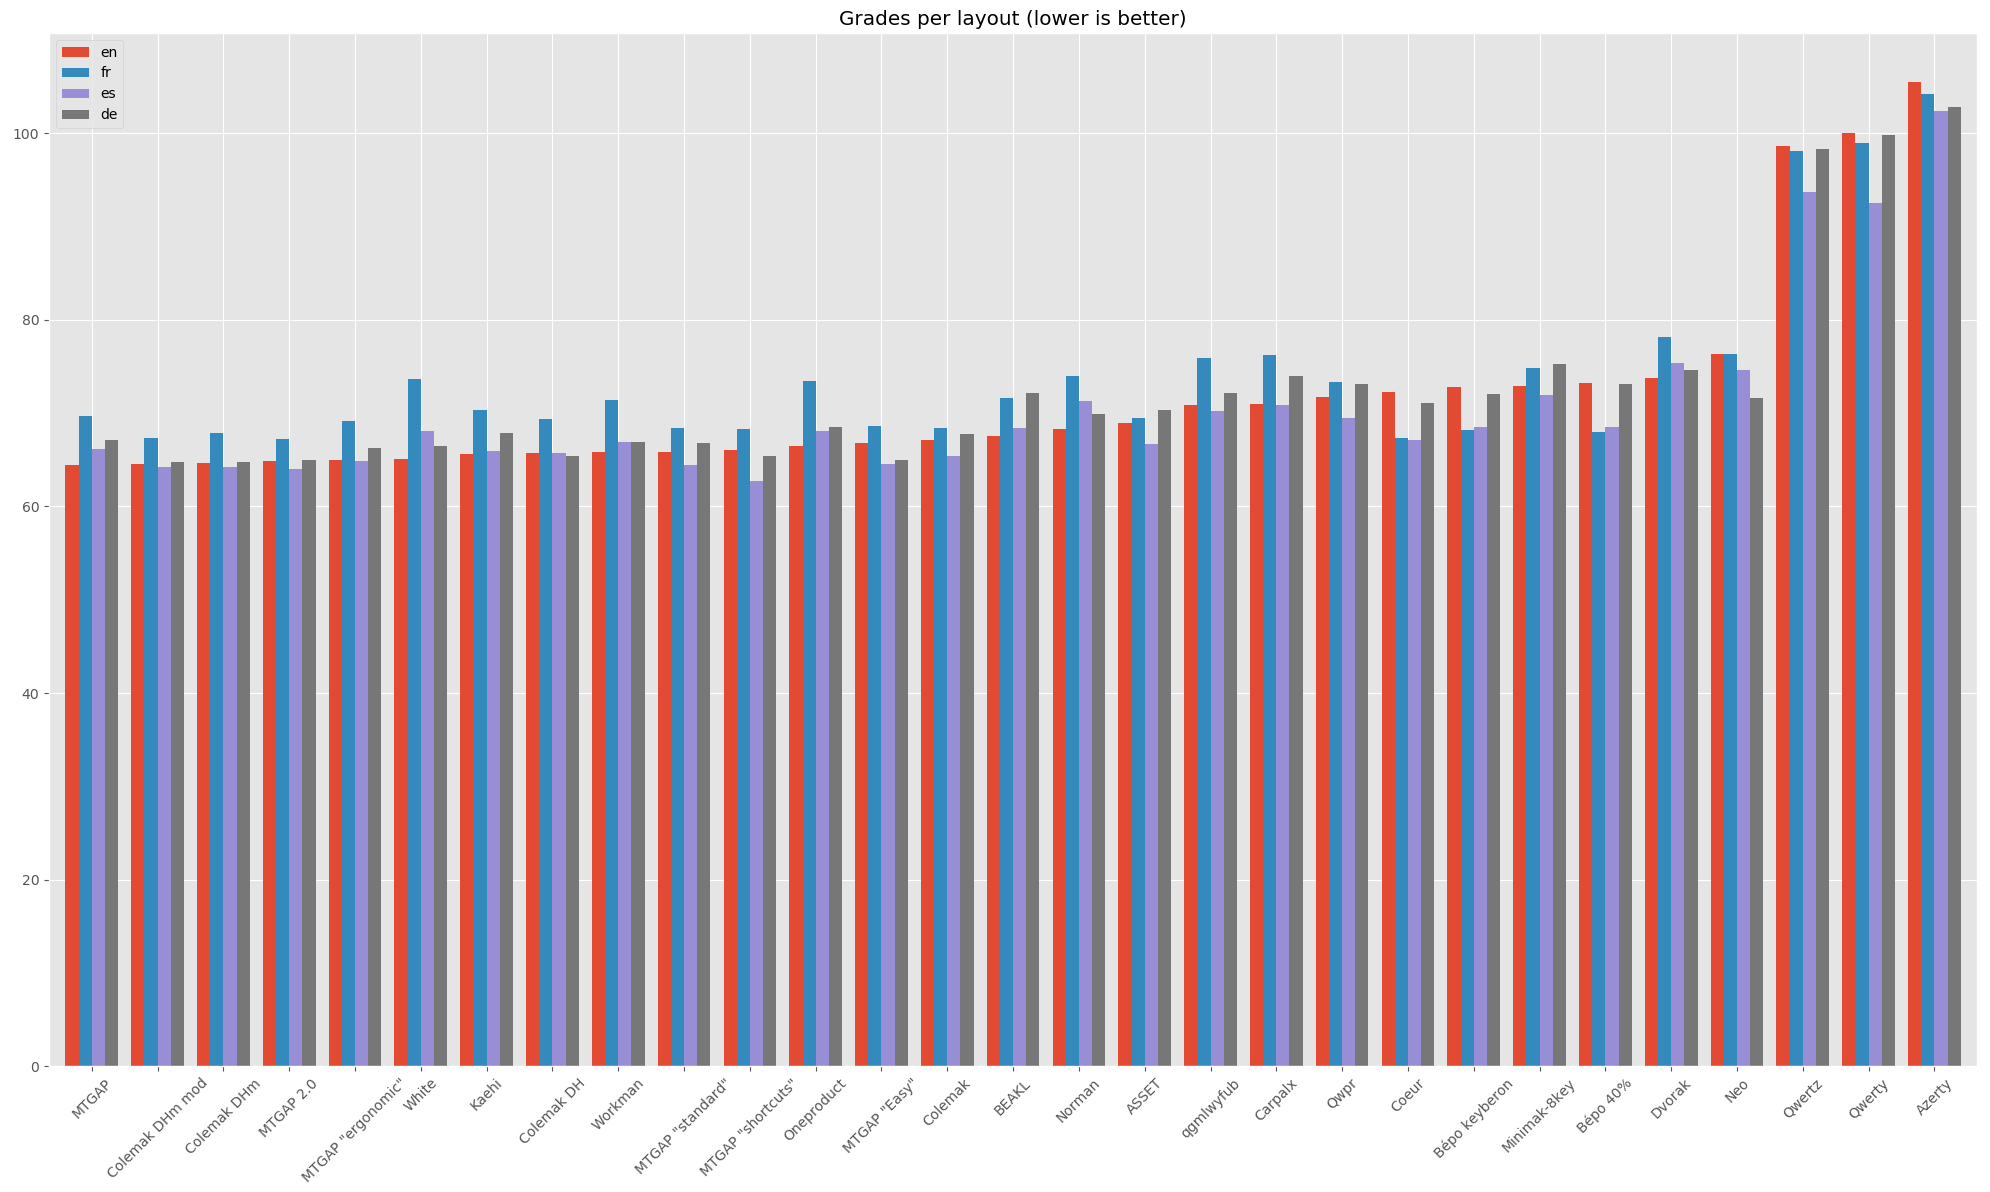
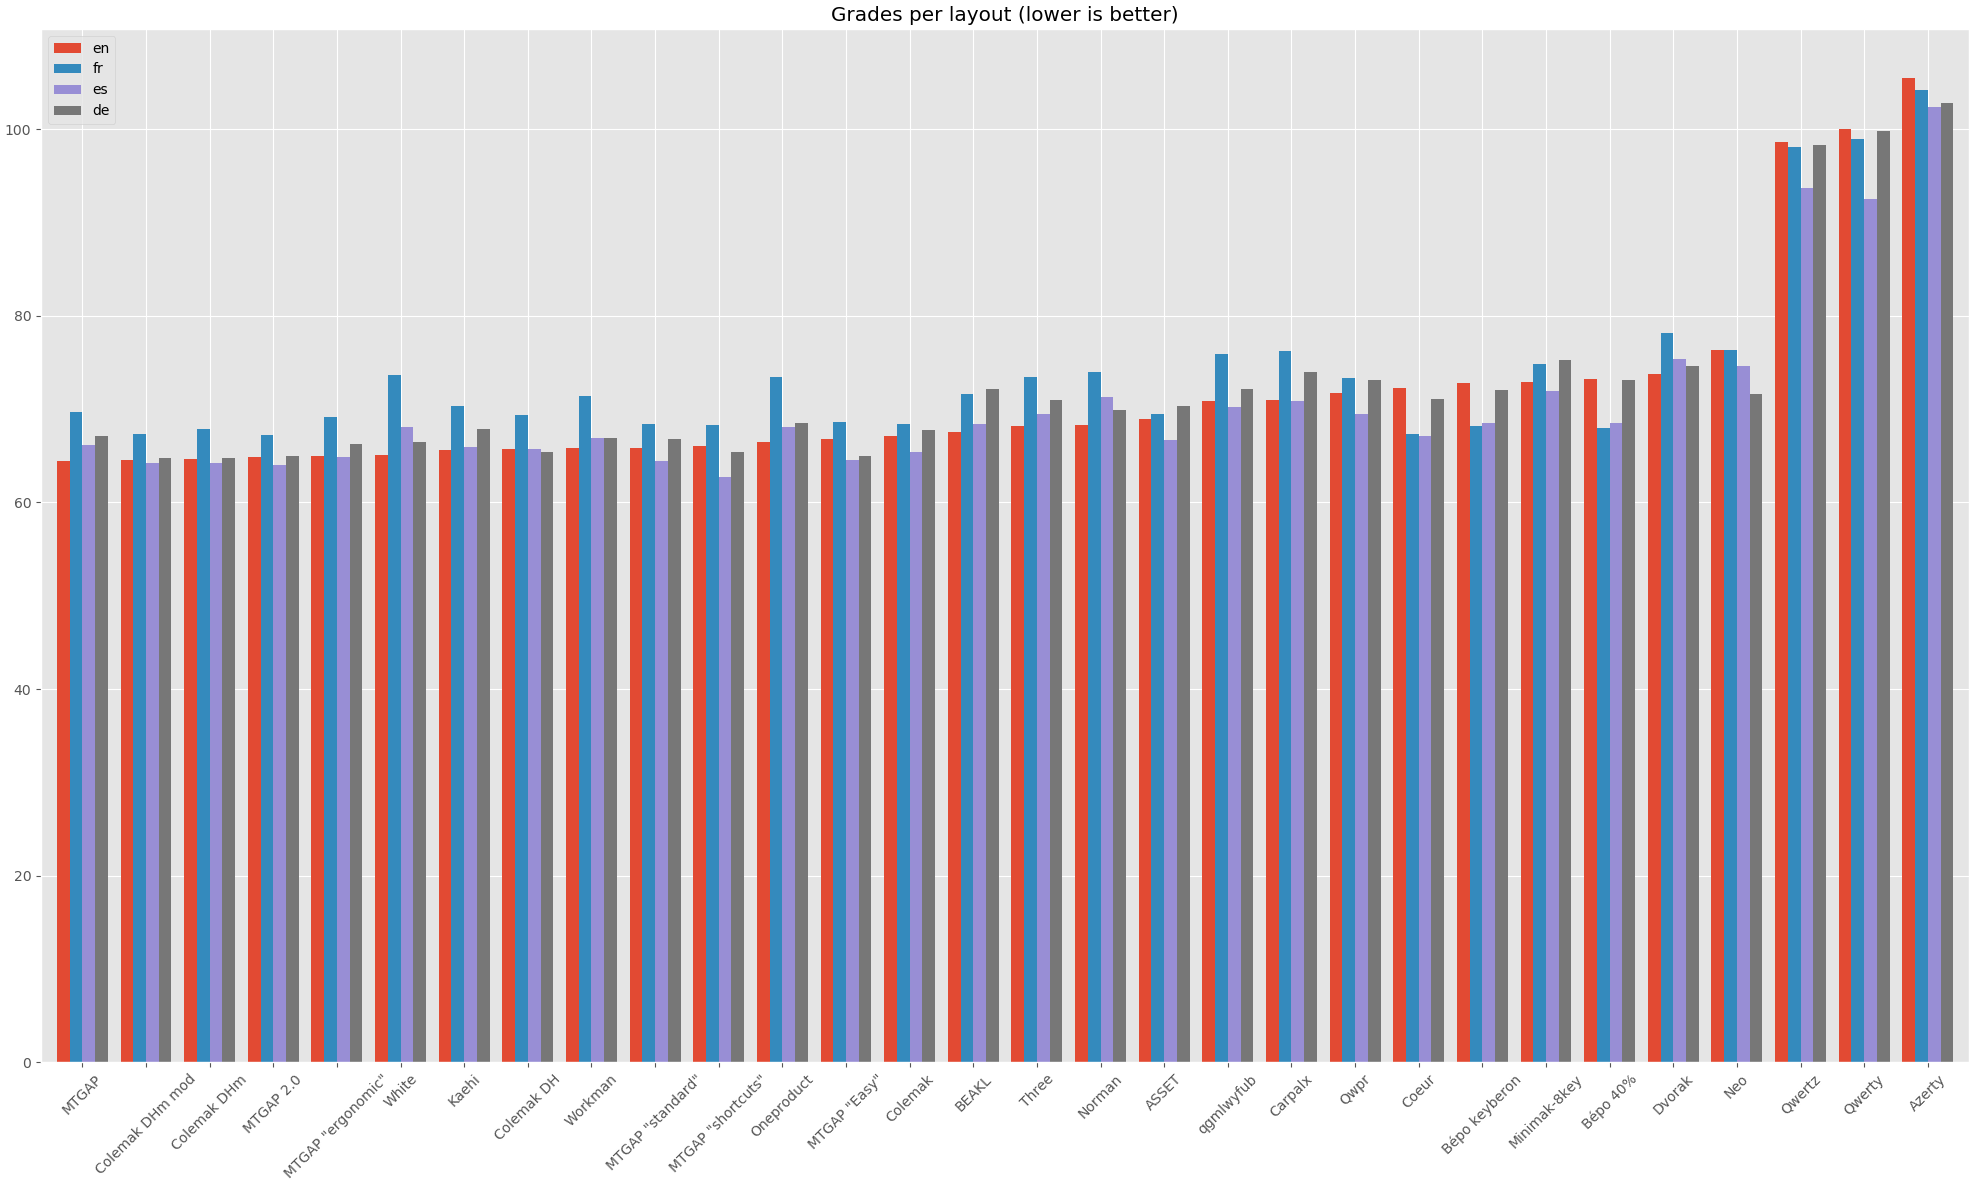
added "Three" layout

diff --git a/README.md b/README.md
@@ -229,6 +229,7 @@ Here is the complete results list. The layouts can be seen in `config.txt`.
 | [MTGAP "Easy"](http://mtgap.bilfo.com/official_keyboard.html)                                   |   66.78 |         66.44 |  68.63 |        67.15 |   64.55 |  64.97 |
 | [Colemak](https://colemak.com/)                                                                 |   67.15 |         67.08 |  68.40 |        67.00 |   65.37 |  67.77 |
 | [BEAKL](https://deskthority.net/wiki/BEAKL)                                                     |   67.53 |         66.54 |  71.57 |        70.62 |   68.37 |  72.13 |
+| [Three](https://github.com/jackrosenthal/threelayout)                                           |   68.23 |         67.51 |  73.43 |        72.53 |   69.46 |  71.00 |
 | [Norman](https://normanlayout.info/)                                                            |   68.34 |         67.74 |  74.01 |        72.48 |   71.24 |  69.86 |
 | [ASSET](http://millikeys.sourceforge.net/asset/)                                                |   68.88 |         68.29 |  69.42 |        67.53 |   66.69 |  70.35 |
 | [qgmlwyfub](http://mkweb.bcgsc.ca/carpalx/?full_optimization)                                   |   70.83 |         70.39 |  75.87 |        76.11 |   70.24 |  72.16 |
